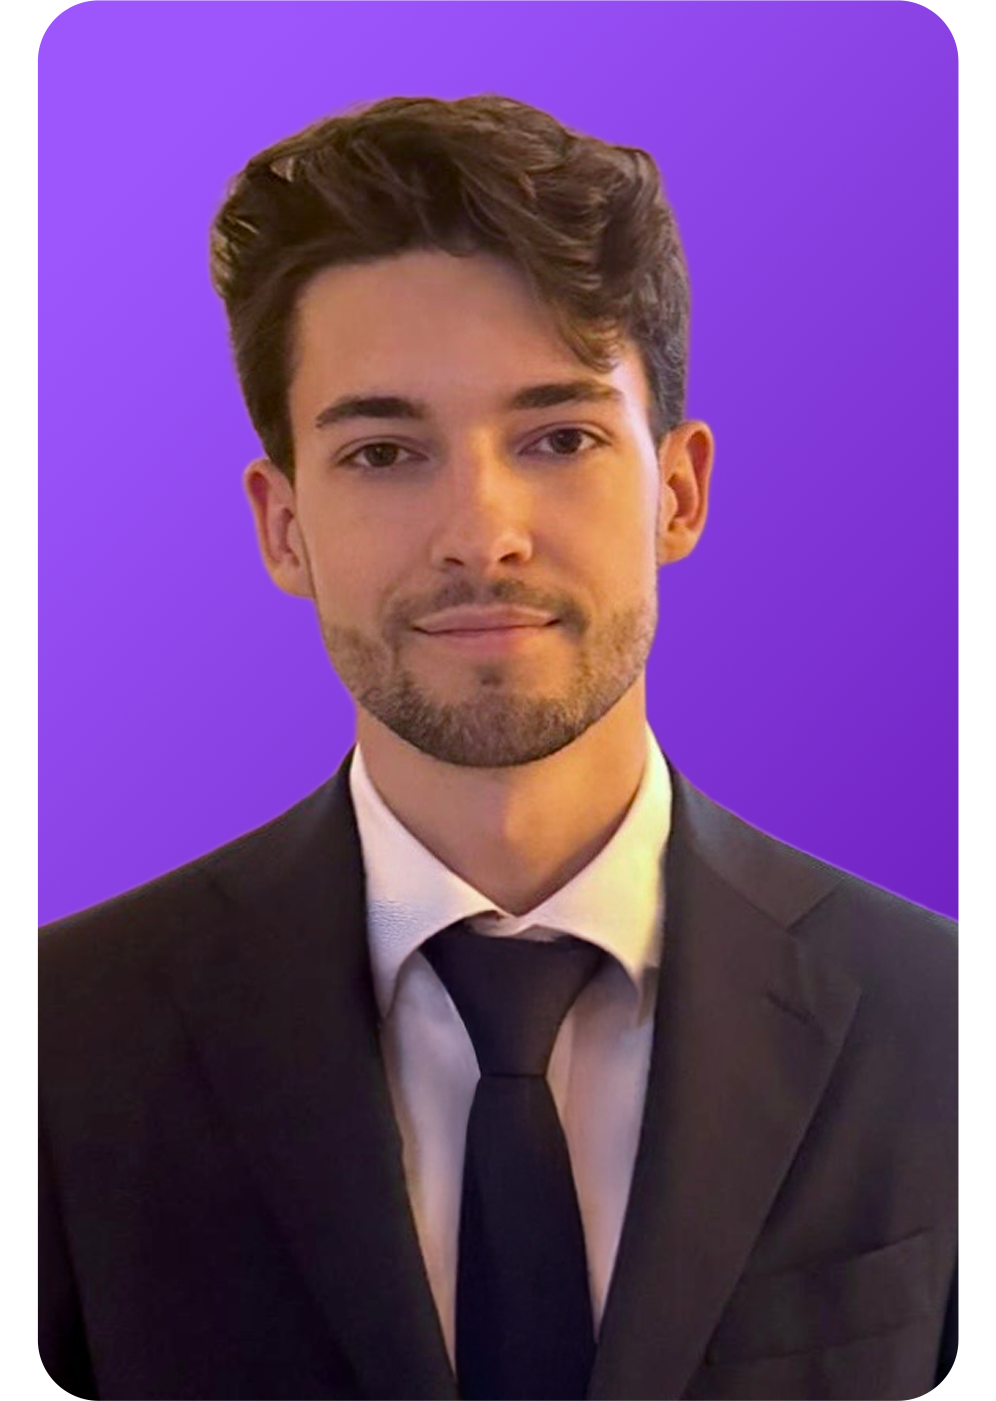
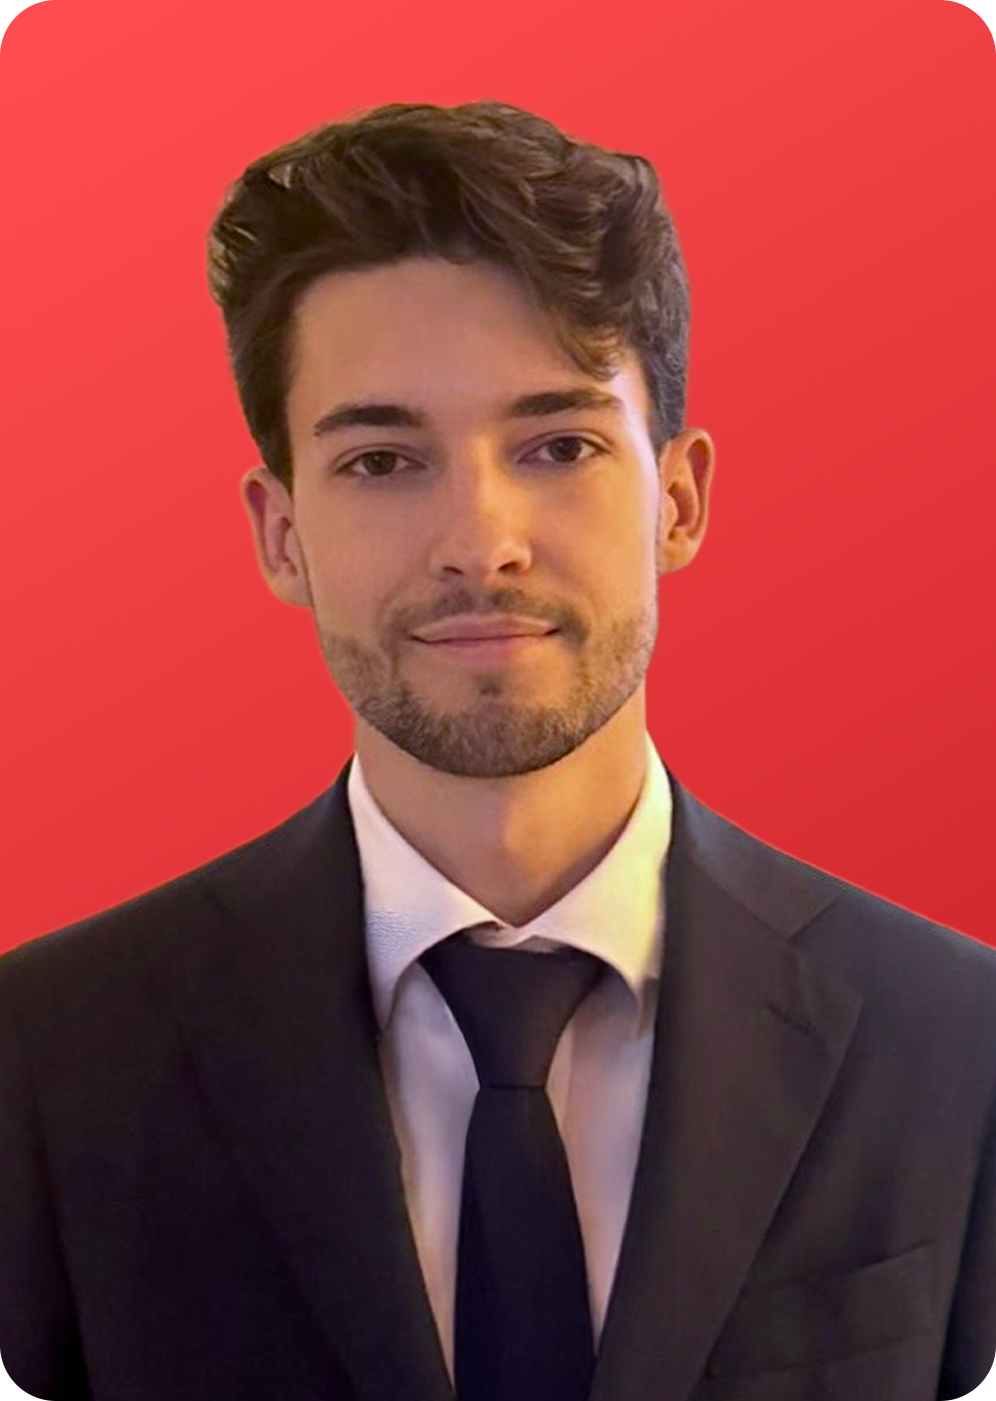
Changed website purple theme to red

diff --git a/styles.css b/styles.css
@@ -5,8 +5,8 @@
   --panel-2: #1b1b21;
   --text: #f5f6f8;
   --muted: #b8bcc6;
-  --brand: #9c56fc;
-  --brand-2: #6d1bbc;
+  --brand: #ff4d4f;
+  --brand-2: #c81d25;
   --border: #23232b;
 
   /* Schaduw & radius */
@@ -29,8 +29,8 @@ body{
   margin: 0;
   font-family: "Montserrat", system-ui, -apple-system, Segoe UI, Roboto, Arial, sans-serif;
   color: var(--text);
-  background: radial-gradient(1200px 800px at 70% -10%, rgba(156,86,252,.25), transparent) no-repeat,
-              radial-gradient(800px 600px at -10% 20%, rgba(109,27,188,.18), transparent) no-repeat,
+  background: radial-gradient(1200px 800px at 70% -10%, rgba(255,77,79,.25), transparent) no-repeat,
+              radial-gradient(800px 600px at -10% 20%, rgba(200,29,37,.18), transparent) no-repeat,
               var(--bg);
   line-height: 1.6;
 }
